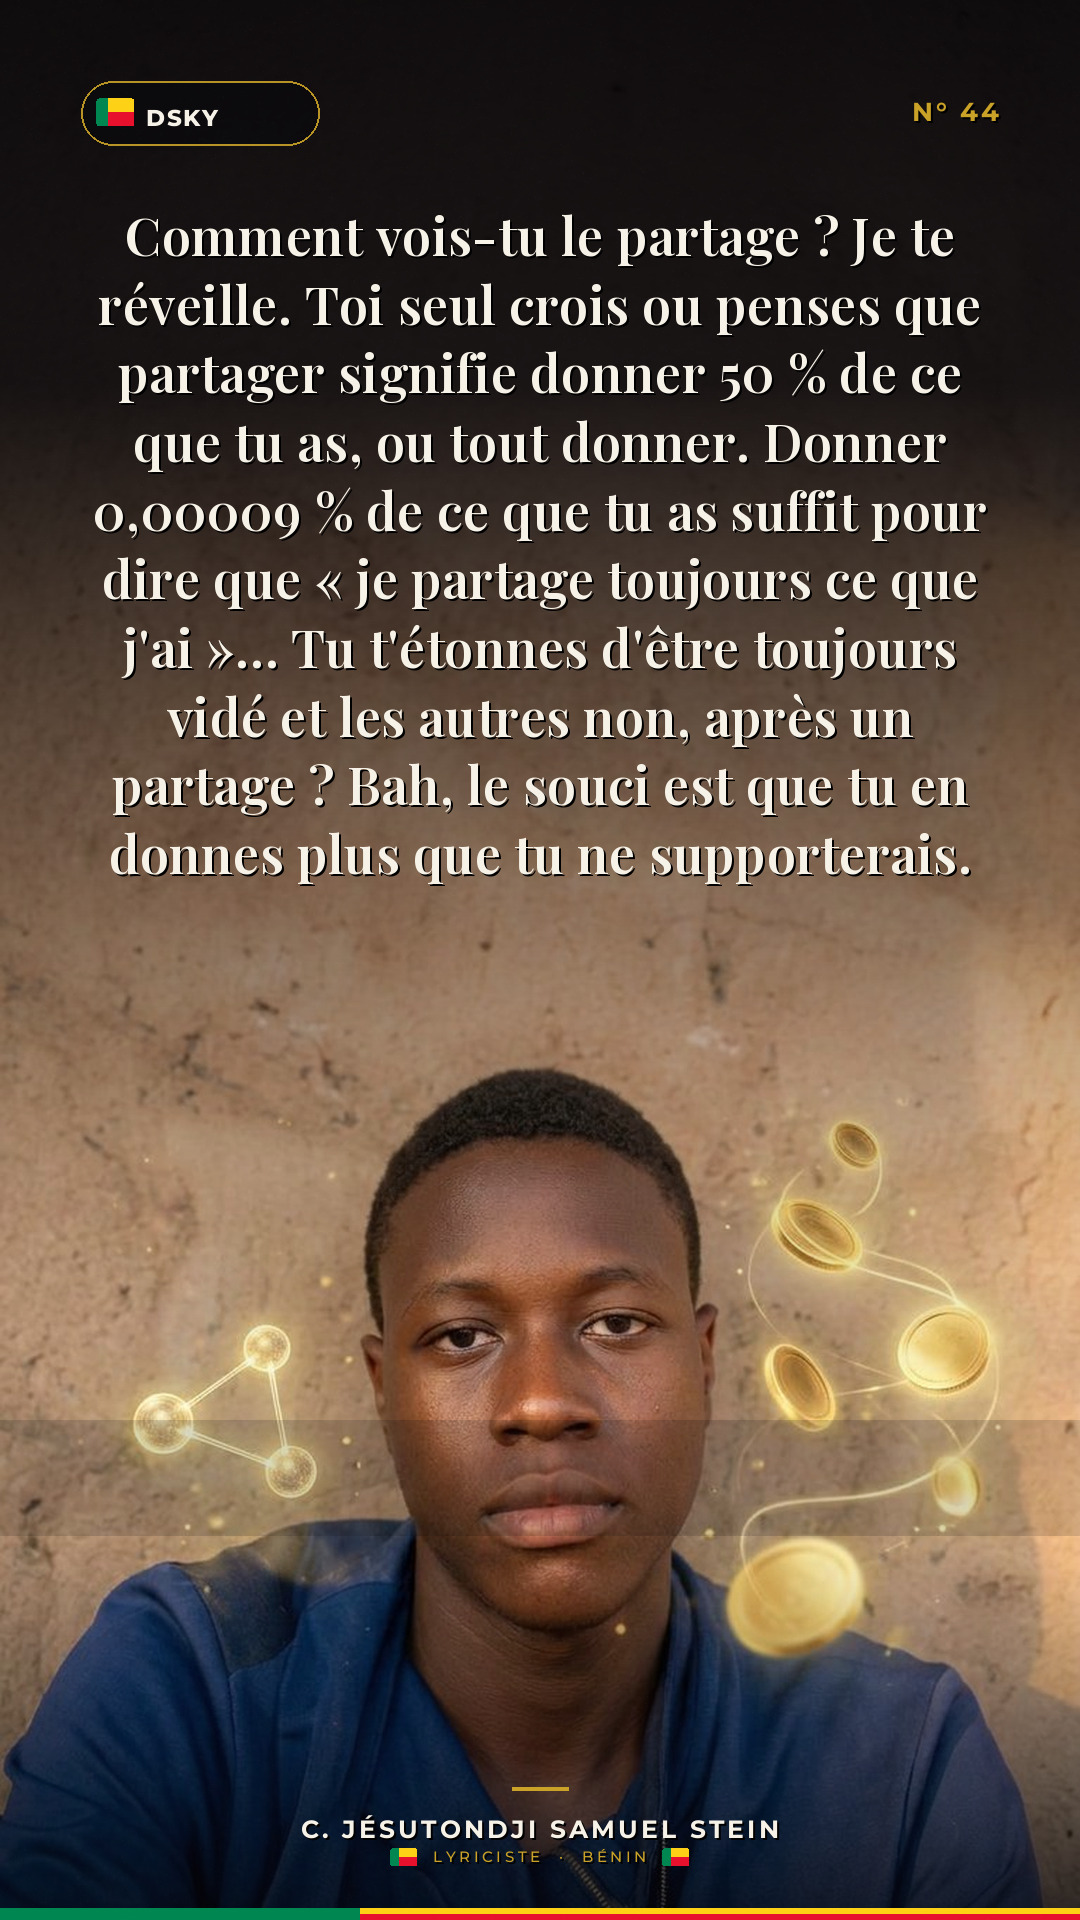
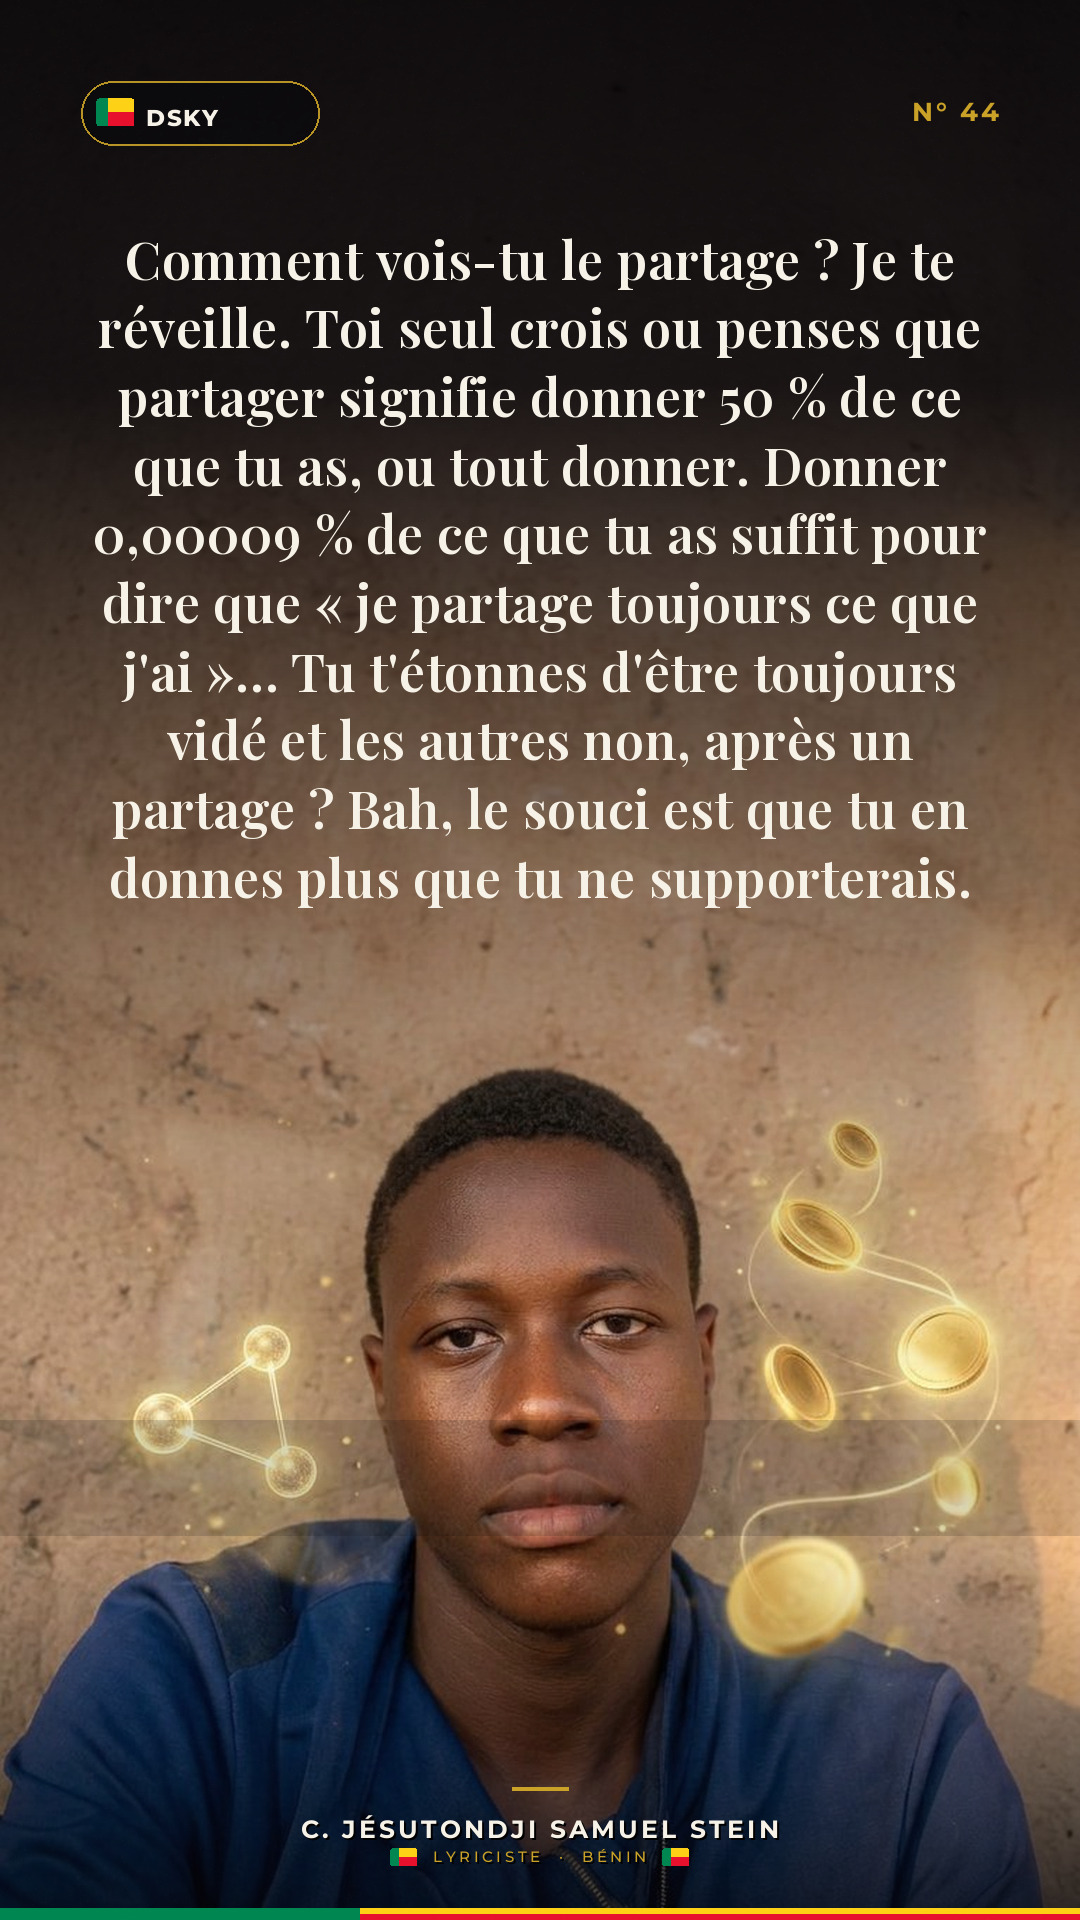
Citation 43 — réparer une erreur stupide & se faire respecter : sablier doré + fissures kintsugi (visage intact)

Changed region(s): [[0.0917, 0.0938, 0.9167, 0.4688]]

diff --git a/dsky-quotes/citations/citations_corrigees.md b/dsky-quotes/citations/citations_corrigees.md
@@ -186,3 +186,7 @@ Quel pur bonheur de pouvoir transmettre son savoir, ses principes et surtout de 
 **44.** `LUXE`
 Comment vois-tu le partage ? Je te réveille. Toi seul crois ou penses que partager signifie donner 50 % de ce que tu as, ou tout donner. Donner 0,00009 % de ce que tu as suffit pour dire que « je partage toujours ce que j'ai »… Tu t'étonnes d'être toujours vidé et les autres non, après un partage ? Bah, le souci est que tu en donnes plus que tu ne supporterais.
 > *(n°43 réservé — en attente du texte de l'auteur)*
+
+**43.** `LUXE`
+Voici les deux choses qui prennent beaucoup plus de temps : réparer une erreur stupide et te faire respecter.
+> *(n°43 : sablier doré + fissures kintsugi — l'erreur réparée, le temps qu'il faut)*
